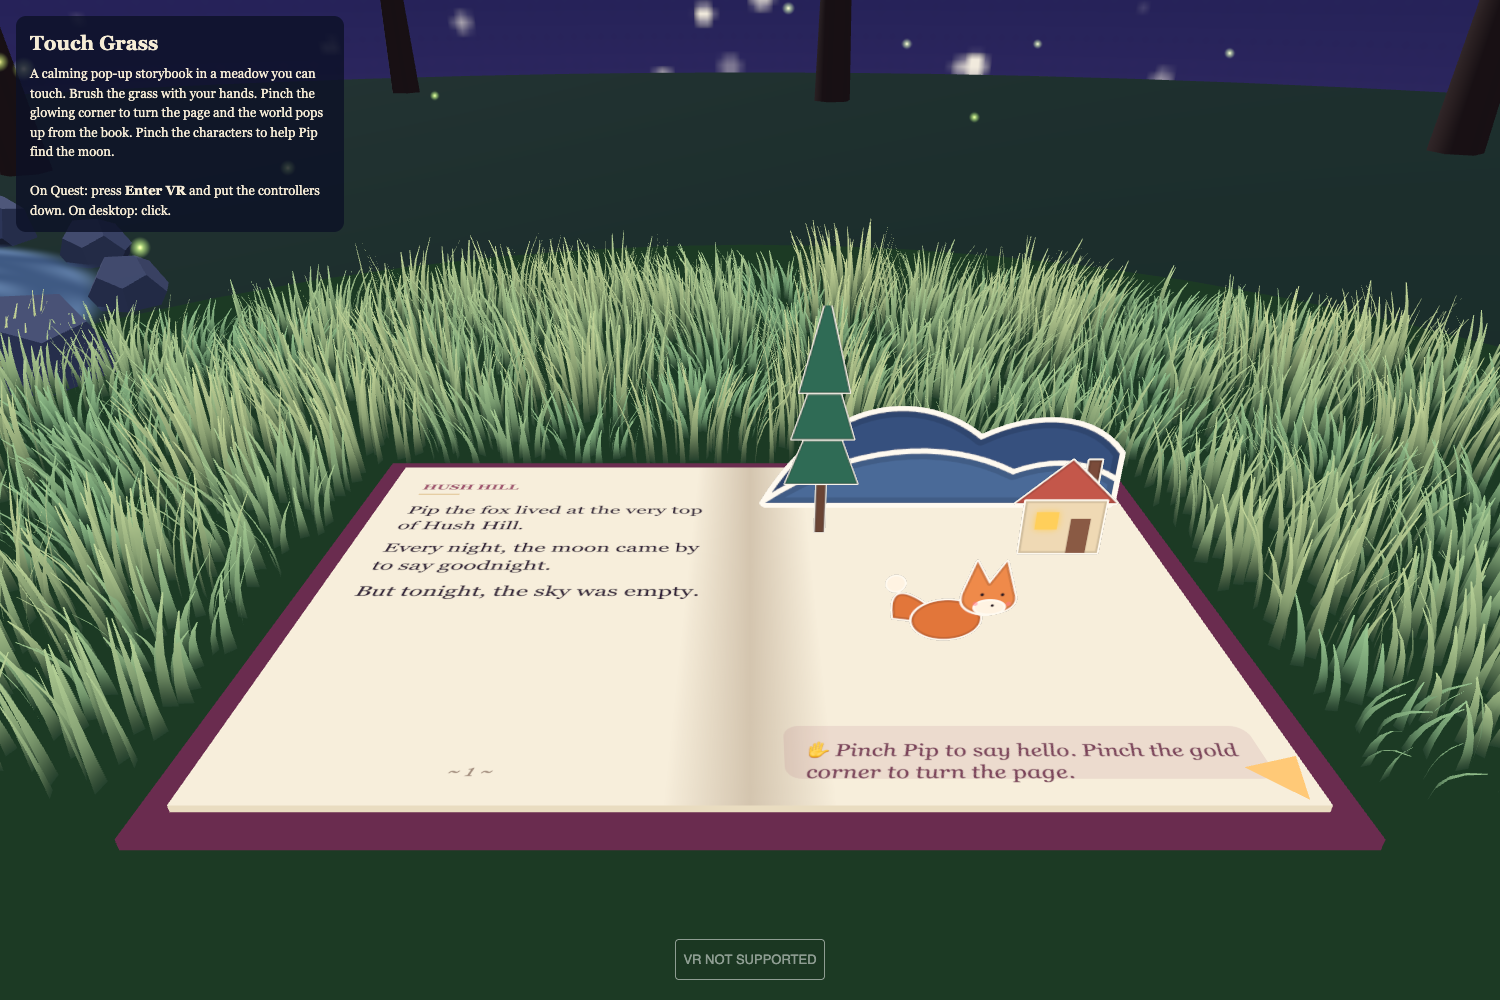
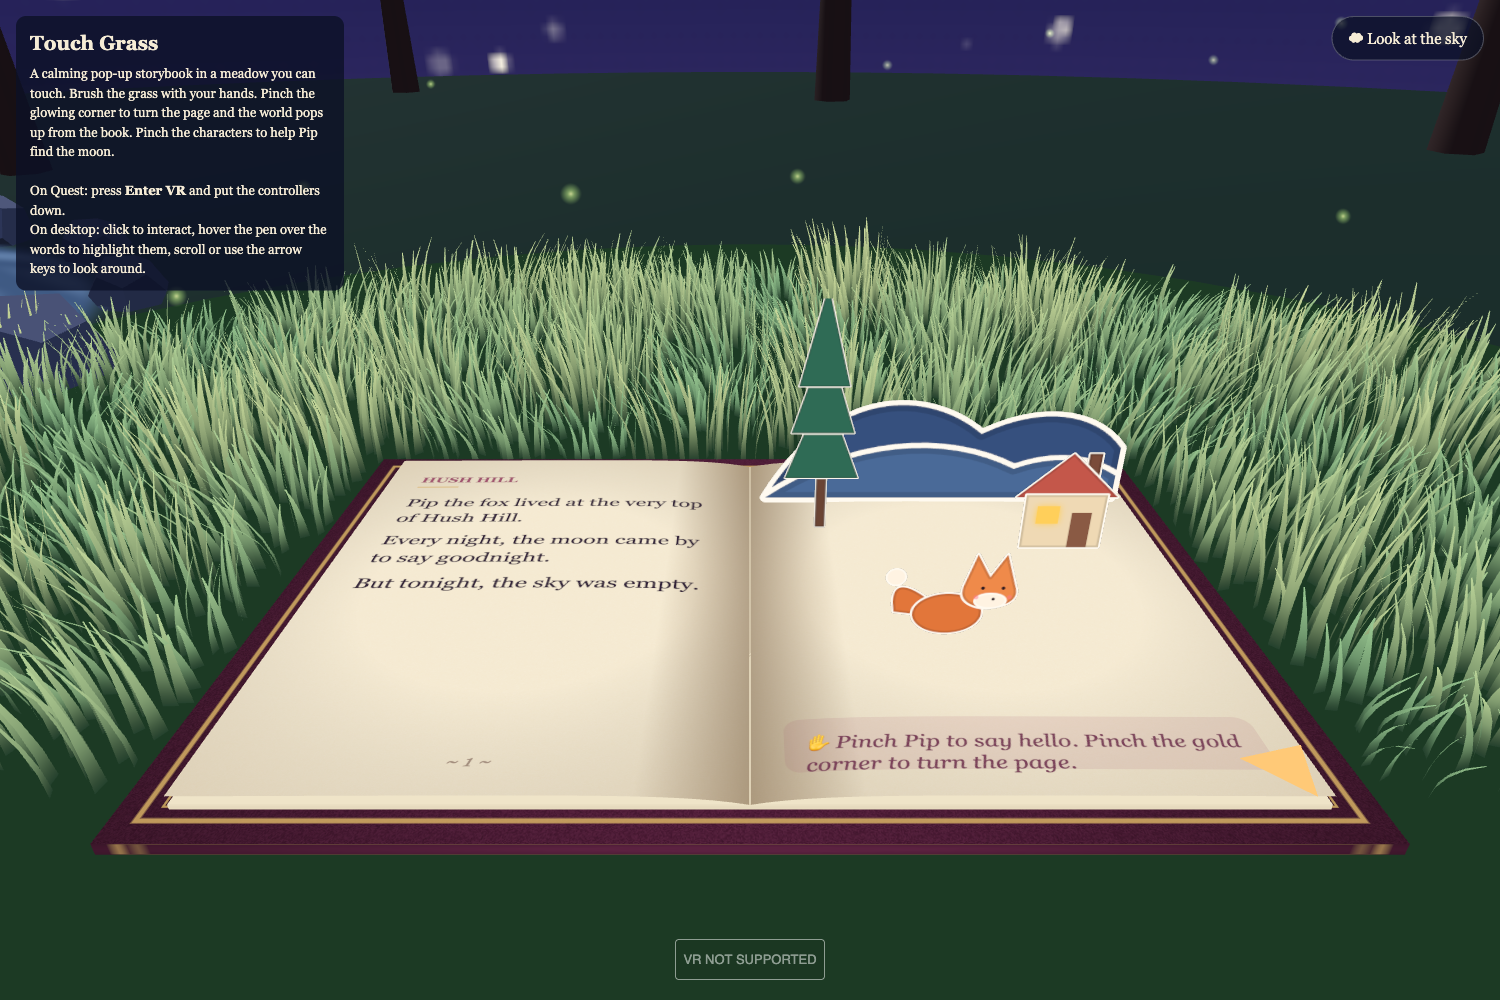
Realistic book (leather cover, page edges, paper grain, curved pages), highlighter pen, smoother page transitions, desktop look-around + sky button

diff --git a/main.js b/main.js
@@ -15,8 +15,18 @@ document.body.appendChild(VRButton.createButton(renderer, { optionalFeatures: ['
 const scene = new THREE.Scene();
 const camera = new THREE.PerspectiveCamera(55, innerWidth / innerHeight, 0.01, 50);
 camera.position.set(0, -0.07, -0.08);          // desktop preview only; VR uses the headset pose
-camera.lookAt(0, -0.27, -0.45);
-if (new URLSearchParams(location.search).has('sky')) camera.lookAt(0, 0.6, -2);
+camera.rotation.order = 'YXZ';
+const look = { yaw: 0, pitch: -0.496, ty: 0, tp: -0.496 };
+if (new URLSearchParams(location.search).has('sky')) look.tp = 0.45;
+camera.rotation.set(look.pitch, look.yaw, 0);
+addEventListener('wheel', e => { look.tp = Math.max(-0.95, Math.min(1.1, look.tp - e.deltaY * 0.0016)); look.ty = Math.max(-1.3, Math.min(1.3, look.ty - e.deltaX * 0.0016)); }, { passive: true });
+addEventListener('keydown', e => {
+  if (e.key === 'ArrowUp') look.tp = Math.min(1.1, look.tp + 0.15); if (e.key === 'ArrowDown') look.tp = Math.max(-0.95, look.tp - 0.15);
+  if (e.key === 'ArrowLeft') look.ty = Math.min(1.3, look.ty + 0.15); if (e.key === 'ArrowRight') look.ty = Math.max(-1.3, look.ty - 0.15);
+});
+addEventListener('DOMContentLoaded', () => {});
+const skyBtn = document.getElementById('skybtn');
+if (skyBtn) skyBtn.addEventListener('click', () => { const up = look.tp > 0; look.tp = up ? -0.496 : 0.45; look.ty = 0; skyBtn.textContent = up ? '☁  Look at the sky' : '📖  Back to the book'; });
 scene.add(camera);
 scene.add(new THREE.HemisphereLight(0x9fb0ff, 0x1a2a1a, 2.2));
 const moonLight = new THREE.DirectionalLight(0xdfe6ff, 1.6); moonLight.position.set(-1, 2, -1); scene.add(moonLight);
@@ -251,40 +261,114 @@ const glow = new THREE.Mesh(new THREE.PlaneGeometry(0.9, 0.7), new THREE.MeshBas
   }),
 }));
 glow.rotation.x = -Math.PI / 2; glow.position.y = -0.012; BOOK.add(glow);
-const coverMat = new THREE.MeshBasicMaterial({ color: 0x6a2c4f });
-const cover = new THREE.Mesh(new THREE.BoxGeometry(PW * 2 + 0.024, 0.008, PD + 0.024), coverMat); cover.position.y = -0.006; BOOK.add(cover);
-const block = new THREE.Mesh(new THREE.BoxGeometry(PW * 2, 0.006, PD), new THREE.MeshBasicMaterial({ color: 0xe9dcc0 })); block.position.y = -0.002; BOOK.add(block);
+// Leather cloth cover with grain and a gold-tooled border
+const leather = tex(1024, 640, (x, w, h) => {
+  x.fillStyle = '#5b2140'; x.fillRect(0, 0, w, h);
+  const id = x.getImageData(0, 0, w, h), d = id.data;
+  for (let i = 0; i < d.length; i += 4) { const n = (Math.random() - 0.5) * 26; d[i] += n; d[i + 1] += n * 0.6; d[i + 2] += n * 0.8; }
+  x.putImageData(id, 0, 0);
+  for (let i = 0; i < 2500; i++) { x.strokeStyle = `rgba(0,0,0,${Math.random() * 0.12})`; x.lineWidth = 1; const a = Math.random() * w, b = Math.random() * h; x.beginPath(); x.moveTo(a, b); x.lineTo(a + (Math.random() - 0.5) * 18, b + (Math.random() - 0.5) * 18); x.stroke(); }
+  const v = x.createRadialGradient(w / 2, h / 2, h * 0.2, w / 2, h / 2, w * 0.7); v.addColorStop(0, 'rgba(0,0,0,0)'); v.addColorStop(1, 'rgba(0,0,0,.45)'); x.fillStyle = v; x.fillRect(0, 0, w, h);
+  x.strokeStyle = 'rgba(214,176,100,.85)'; x.lineWidth = 5; x.strokeRect(22, 22, w - 44, h - 44); x.lineWidth = 2; x.strokeRect(36, 36, w - 72, h - 72);
+});
+const coverMat = new THREE.MeshBasicMaterial({ map: leather });
+const cover = new THREE.Mesh(new THREE.BoxGeometry(PW * 2 + 0.036, 0.005, PD + 0.03), coverMat); cover.position.y = -0.0035; BOOK.add(cover);
+// Page block: stacked page edges on the sides
+const edges = tex(512, 64, (x, w, h) => {
+  x.fillStyle = '#efe4c8'; x.fillRect(0, 0, w, h);
+  for (let y = 0; y < h; y += 2) { x.fillStyle = `rgba(120,95,60,${0.08 + Math.random() * 0.14})`; x.fillRect(0, y, w, 1); }
+});
+const edgeMat = new THREE.MeshBasicMaterial({ map: edges }), plainMat = new THREE.MeshBasicMaterial({ color: 0xefe4c8 });
+const block = new THREE.Mesh(new THREE.BoxGeometry(PW * 2, 0.01, PD), [edgeMat, edgeMat, plainMat, plainMat, edgeMat, edgeMat]); block.position.y = -0.0035; block.scale.y = 0.95; BOOK.add(block);
+// Paper grain, generated once and laid over every page
+const GRAIN = document.createElement('canvas'); GRAIN.width = 800; GRAIN.height = 1040;
+{
+  const g = GRAIN.getContext('2d'), id = g.createImageData(800, 1040), d = id.data;
+  for (let i = 0; i < d.length; i += 4) { const n = 128 + (Math.random() - 0.5) * 38; d[i] = d[i + 1] = d[i + 2] = n; d[i + 3] = 255; }
+  g.putImageData(id, 0, 0);
+  for (let i = 0; i < 900; i++) { g.strokeStyle = `rgba(90,70,40,${Math.random() * 0.25})`; g.lineWidth = 0.6; const a = Math.random() * 800, b = Math.random() * 1040, r = Math.random() * 6.28; g.beginPath(); g.moveTo(a, b); g.lineTo(a + Math.cos(r) * 14, b + Math.sin(r) * 14); g.stroke(); }
+}
 
 function pageMesh(x, spineLeft) {
   const c = document.createElement('canvas'); c.width = 800; c.height = 1040;
   const t = new THREE.CanvasTexture(c); t.colorSpace = THREE.SRGBColorSpace; t.anisotropy = 8;
-  const m = new THREE.Mesh(new THREE.PlaneGeometry(PW, PD), new THREE.MeshBasicMaterial({ map: t }));
+  const geo = new THREE.PlaneGeometry(PW, PD, 32, 1), pa = geo.attributes.position;
+  for (let i = 0; i < pa.count; i++) { const u = spineLeft ? (pa.getX(i) + PW / 2) / PW : (PW / 2 - pa.getX(i)) / PW; pa.setZ(i, 0.005 * (1 - Math.exp(-u * 9)) - 0.001 * u); }
+  geo.computeVertexNormals();
+  const m = new THREE.Mesh(geo, new THREE.MeshBasicMaterial({ map: t }));
   m.rotation.x = -Math.PI / 2; m.position.set(x, 0.0012, 0); BOOK.add(m);
-  return { c, ctx: c.getContext('2d'), t, spineLeft };
+  return { c, ctx: c.getContext('2d'), t, spineLeft, m, lines: [] };
 }
 const left = pageMesh(-PW / 2, false), right = pageMesh(PW / 2, true);
 function paper(p) {
-  const x = p.ctx; x.fillStyle = '#f7eedb'; x.fillRect(0, 0, 800, 1040);
-  const g = x.createLinearGradient(p.spineLeft ? 0 : 800, 0, p.spineLeft ? 120 : 680, 0);
-  g.addColorStop(0, 'rgba(120,90,60,.28)'); g.addColorStop(1, 'rgba(120,90,60,0)'); x.fillStyle = g; x.fillRect(0, 0, 800, 1040);
+  const x = p.ctx; x.fillStyle = '#f5ead2'; x.fillRect(0, 0, 800, 1040);
+  x.save(); x.globalCompositeOperation = 'overlay'; x.globalAlpha = 0.55; x.drawImage(GRAIN, 0, 0); x.restore();
+  const g = x.createLinearGradient(p.spineLeft ? 0 : 800, 0, p.spineLeft ? 160 : 640, 0);
+  g.addColorStop(0, 'rgba(90,60,30,.38)'); g.addColorStop(1, 'rgba(90,60,30,0)'); x.fillStyle = g; x.fillRect(0, 0, 800, 1040);
+  const v = x.createRadialGradient(400, 520, 300, 400, 520, 720); v.addColorStop(0, 'rgba(0,0,0,0)'); v.addColorStop(1, 'rgba(110,80,40,.18)'); x.fillStyle = v; x.fillRect(0, 0, 800, 1040);
 }
-function wrap(ctx, text, x, y, w, lh) {
+function wrap(ctx, text, x, y, w, lh, out) {
+  const put = (line) => { ctx.fillText(line, x, y); if (out) out.push({ x, y, w: ctx.measureText(line).width, lh }); };
   for (const para of text.split('\n')) {
     let line = '';
     for (const word of para.split(' ')) {
       const t = line ? line + ' ' + word : word;
-      if (ctx.measureText(t).width > w) { ctx.fillText(line, x, y); y += lh; line = word; } else line = t;
+      if (ctx.measureText(t).width > w) { put(line); y += lh; line = word; } else line = t;
     }
-    ctx.fillText(line, x, y); y += lh * 1.35;
+    put(line); y += lh * 1.35;
   }
 }
-function drawPages(n, total, heading, text, hint) {
+const marks = {};   // page -> { lineIndex: [x0, x1] }  highlighter strokes persist per page
+let cur = null;
+function drawLeft() {
+  if (!cur) return;
   paper(left); const L = left.ctx;
-  L.fillStyle = '#a0526e'; L.font = '600 34px Georgia, serif'; L.fillText(heading.toUpperCase(), 70, 110);
+  L.fillStyle = '#a0526e'; L.font = '600 34px Georgia, serif'; L.fillText(cur.heading.toUpperCase(), 70, 110);
   L.fillStyle = '#d9b46a'; L.fillRect(70, 130, 90, 4);
-  L.fillStyle = '#33223a'; L.font = '46px Georgia, serif'; wrap(L, text, 70, 220, 660, 66);
-  L.fillStyle = '#a08a7a'; L.font = 'italic 30px Georgia, serif'; L.textAlign = 'center'; L.fillText(`~ ${n} ~`, 400, 985); L.textAlign = 'left';
+  // measure lines first (invisible pass) so highlights sit under the ink
+  L.font = '46px Georgia, serif'; const lines = []; L.save(); L.fillStyle = 'rgba(0,0,0,0)'; wrap(L, cur.text, 70, 220, 660, 66, lines); L.restore();
+  left.lines = lines;
+  const pm = marks[page] || {};
+  L.save(); L.globalCompositeOperation = 'multiply';
+  for (const k in pm) { const ln = lines[k]; if (!ln) continue; const [a, b] = pm[k];
+    L.fillStyle = 'rgba(255,214,70,.75)'; L.beginPath(); L.roundRect(a, ln.y - ln.lh * 0.72, b - a, ln.lh * 0.86, 10); L.fill(); }
+  L.restore();
+  L.fillStyle = '#33223a'; L.font = '46px Georgia, serif'; wrap(L, cur.text, 70, 220, 660, 66);
+  L.fillStyle = '#a08a7a'; L.font = 'italic 30px Georgia, serif'; L.textAlign = 'center'; L.fillText(`~ ${cur.n} ~`, 400, 985); L.textAlign = 'left';
   left.t.needsUpdate = true;
+}
+function highlightAt(cx, cy) {
+  const ln = left.lines.findIndex(l => cy > l.y - l.lh * 0.8 && cy < l.y + l.lh * 0.25 && cx > l.x - 12 && cx < l.x + l.w + 12);
+  if (ln < 0) return false;
+  const pm = (marks[page] ??= {}), l = left.lines[ln];
+  const a = Math.max(l.x - 6, cx - 16), b = Math.min(l.x + l.w + 6, cx + 16);
+  const r = pm[ln]; if (r && a >= r[0] && b <= r[1]) return true;
+  pm[ln] = r ? [Math.min(r[0], a), Math.max(r[1], b)] : [a, b];
+  drawLeft(); markerSound(); return true;
+}
+let lastMark = 0;
+function markerSound() {
+  const now = performance.now(); if (now - lastMark < 90 || !actx) return; lastMark = now;
+  const len = actx.sampleRate * 0.08, buf = actx.createBuffer(1, len, actx.sampleRate), d = buf.getChannelData(0);
+  for (let i = 0; i < len; i++) d[i] = (Math.random() * 2 - 1) * Math.sin(Math.PI * i / len);
+  const src = actx.createBufferSource(); src.buffer = buf; const f = actx.createBiquadFilter(); f.type = 'highpass'; f.frequency.value = 2500;
+  const g = actx.createGain(); g.gain.value = 0.05; src.connect(f).connect(g).connect(actx.destination); src.start();
+}
+// A pencil-style highlighter pen that follows your fingertip (VR) or the mouse (desktop)
+const pen = new THREE.Group();
+{
+  const body = new THREE.Mesh(new THREE.CylinderGeometry(0.0035, 0.0035, 0.09, 12), new THREE.MeshStandardMaterial({ color: 0xffd24a, roughness: 0.5 })); body.position.y = 0.055; pen.add(body);
+  const cap = new THREE.Mesh(new THREE.CylinderGeometry(0.0036, 0.0036, 0.012, 12), new THREE.MeshStandardMaterial({ color: 0x3a3a3a })); cap.position.y = 0.104; pen.add(cap);
+  const tipM = new THREE.Mesh(new THREE.ConeGeometry(0.0035, 0.01, 12), new THREE.MeshStandardMaterial({ color: 0xffe27a })); tipM.rotation.x = Math.PI; tipM.position.y = 0.005; pen.add(tipM);
+  pen.rotation.set(0.5, 0, -0.35); pen.visible = false; scene.add(pen);
+}
+function pageCanvasPoint(worldP) {
+  const l = left.m.worldToLocal(worldP.clone());
+  if (Math.abs(l.x) > PW / 2 || Math.abs(l.y) > PD / 2 || l.z < -0.006 || l.z > 0.022) return null;
+  return [(l.x / PW + 0.5) * 800, (1 - (l.y / PD + 0.5)) * 1040];
+}
+function drawPages(n, total, heading, text, hint) {
+  cur = { n, total, heading, text }; drawLeft();
   paper(right); const R = right.ctx;
   R.fillStyle = 'rgba(160,82,110,.12)'; R.beginPath(); R.roundRect(50, 880, 700, 110, 24); R.fill();
   R.fillStyle = '#7a3e58'; R.font = 'italic 36px Georgia, serif'; wrap(R, '✋ ' + hint, 80, 945, 640, 44);
@@ -294,10 +378,10 @@ function drawPages(n, total, heading, text, hint) {
 // Page corner: a folded, glowing dog-ear you pinch to turn
 const corner = new THREE.Mesh(new THREE.CircleGeometry(0.014, 3), new THREE.MeshBasicMaterial({ color: 0xffc977, side: THREE.DoubleSide }));
 corner.rotation.x = -Math.PI / 2; corner.rotation.z = Math.PI / 4;
-corner.position.set(PW - 0.012, 0.004, PD / 2 - 0.012); BOOK.add(corner);
+corner.position.set(PW - 0.012, 0.0075, PD / 2 - 0.012); BOOK.add(corner);
 
 // ---------- Paper cut-outs that fold up off the page ----------
-const stage = new THREE.Group(); stage.position.set(PW / 2, 0.002, 0); BOOK.add(stage);
+const stage = new THREE.Group(); stage.position.set(PW / 2, 0.005, 0); BOOK.add(stage);
 let pops = [], tappables = [];
 const EDGE = '#fffaf0';
 function cutout(w, h, draw, { flat = false } = {}) {
@@ -575,9 +659,9 @@ function turnPage() {
   const sheet = new THREE.Mesh(geo, new THREE.MeshBasicMaterial({ map: front, side: THREE.FrontSide }));
   const back = new THREE.Mesh(geo, new THREE.MeshBasicMaterial({ color: 0xefe4cc, side: THREE.BackSide }));
   for (const m of [sheet, back]) { m.rotation.x = -Math.PI / 2; m.position.x = PW / 2; g.add(m); }
-  stage.visible = false;
+  pops.forEach(m => (m.userData.fold = 1));   // old scene folds back down into the page
   flip = { g, geo, p: 0, swapped: false, base: Float32Array.from(geo.attributes.position.array) };
-  setTimeout(() => paperThump(), 780);
+  setTimeout(() => paperThump(), 1150);
 }
 function paperSwish() {
   actx ??= new AudioContext();
@@ -598,7 +682,7 @@ function paperThump() {
 }
 function updateFlip(dt) {
   if (!flip) return;
-  const f = flip; f.p = Math.min(1, f.p + dt * 1.25);
+  const f = flip; f.p = Math.min(1, f.p + dt * 0.85);
   const e = f.p < 0.5 ? 2 * f.p * f.p : 1 - Math.pow(-2 * f.p + 2, 2) / 2;   // ease in-out
   f.g.rotation.z = e * Math.PI;
   const pos = f.geo.attributes.position, lift = Math.sin(e * Math.PI);
@@ -607,7 +691,7 @@ function updateFlip(dt) {
     pos.setZ(i, lift * 0.05 * u * u - lift * 0.02 * u);                      // paper curl
   }
   pos.needsUpdate = true;
-  if (!f.swapped && f.p > 0.5) { f.swapped = true; showPage((page + 1) % PAGES.length); stage.visible = true; }
+  if (!f.swapped && f.p > 0.5) { f.swapped = true; showPage((page + 1) % PAGES.length); }
   if (f.p >= 1) { BOOK.remove(f.g); f.geo.dispose(); flip = null; }
 }
 
@@ -629,6 +713,7 @@ const hands = [0, 1].map(i => {
   tip.visible = false; scene.add(tip);
   return { hand, tip, pinching: false };
 });
+let penOwner = null;
 function updateHands() {
   hands.forEach((h, i) => (h.slot = i ? grassU.uH1 : grassU.uH0));
   for (const h of hands) {
@@ -639,6 +724,9 @@ function updateHands() {
     h.slot.value.copy(palm && palm.visible ? palm.getWorldPosition(new THREE.Vector3()).lerp(a, 0.5) : a);
     const p = a.clone().add(b).multiplyScalar(0.5), d = a.distanceTo(b);
     h.tip.visible = true; h.tip.position.copy(p);
+    const cp = !h.pinching && pageCanvasPoint(a);
+    if (cp) { pen.visible = true; pen.position.copy(a); penOwner = h; highlightAt(cp[0], cp[1]); }
+    else if (penOwner === h) { pen.visible = false; penOwner = null; }
     if (!h.pinching && d < 0.02) {
       h.pinching = true; const hit = hitObject(p);
       if (!hit && breath) { h.breathing = true; breatheStart(); } else activate(hit);
@@ -660,6 +748,12 @@ const grassPlane = new THREE.Plane(new THREE.Vector3(0, 1, 0), -(GRASS_Y + 0.02)
 renderer.domElement.addEventListener('pointermove', e => {
   ndc.set((e.clientX / innerWidth) * 2 - 1, -(e.clientY / innerHeight) * 2 + 1); ray.setFromCamera(ndc, camera);
   ray.ray.intersectPlane(grassPlane, grassU.uH2.value) || grassU.uH2.value.set(9, 9, 9);
+  const hit = ray.intersectObject(left.m)[0];
+  if (hit && !renderer.xr.isPresenting) {
+    pen.visible = true; pen.position.copy(hit.point);
+    const cx = hit.uv.x * 800, cy = (1 - hit.uv.y) * 1040;
+    renderer.domElement.style.cursor = highlightAt(cx, cy) || left.lines.some(l => cy > l.y - l.lh && cy < l.y + l.lh * 0.3) ? 'none' : 'none';
+  } else if (!renderer.xr.isPresenting) { pen.visible = false; renderer.domElement.style.cursor = ''; }
 });
 addEventListener('resize', () => { camera.aspect = innerWidth / innerHeight; camera.updateProjectionMatrix(); renderer.setSize(innerWidth, innerHeight); });
 
@@ -670,6 +764,7 @@ showPage(0);
 renderer.setAnimationLoop(() => {
   const dt = Math.min(clock.getDelta(), 0.05), t = clock.elapsedTime;
   grassU.uTime.value = t; window.__skyU.uTime.value = t;
+  if (!renderer.xr.isPresenting) { look.pitch += (look.tp - look.pitch) * Math.min(1, dt * 4); look.yaw += (look.ty - look.yaw) * Math.min(1, dt * 4); camera.rotation.set(look.pitch, look.yaw, 0); }
   updateWorld(t, dt);
   updateFlip(dt);
   updateSkyToys(t);
@@ -677,9 +772,10 @@ renderer.setAnimationLoop(() => {
   updateBreath(dt);
   for (const m of pops) {
     const u = m.userData;
+    if (u.fold !== undefined) { u.fold = Math.max(0, u.fold - dt * 2.6); if (!u.flat) m.rotation.x = -Math.PI / 2 * (1 - u.fold * u.fold); m.position.y = (u.baseY || 0) * u.fold; continue; }
     if (u.rise) { m.position.y += dt * 0.03; m.position.x += Math.sin(t * 2 + m.id) * dt * 0.005; continue; }
     // fold up from the page like paper engineering
-    if (u.popT < 1) { u.popT += dt * 1.6; const k = Math.max(0, Math.min(1, u.popT)); const target = u.flat ? -Math.PI / 2 : 0; m.rotation.x = -Math.PI / 2 + (target + Math.PI / 2) * (u.flat ? k : backOut(k)); }
+    if (u.popT < 1) { u.popT += dt * 1.25; const k = Math.max(0, Math.min(1, u.popT)); const target = u.flat ? -Math.PI / 2 : 0; m.rotation.x = -Math.PI / 2 + (target + Math.PI / 2) * (u.flat ? k : backOut(k)); }
     let y = u.baseY + (u.lift && u.popT >= 0 ? u.lift * Math.min(1, u.popT) : 0);
     if (u.hop) { u.hop = Math.max(0, u.hop - dt * 3); y += Math.sin(u.hop * Math.PI) * 0.015; }
     if (u.drift) { u.drift += dt; m.position.x = Math.min(0.2, (u.drift - 1) * 0.08); y += (u.drift - 1) * 0.02; }

diff --git a/index.html b/index.html
@@ -21,8 +21,9 @@
 <div id="intro">
   <h1>Touch Grass</h1>
   A calming pop-up storybook in a meadow you can touch. Brush the grass with your hands. Pinch the glowing corner to turn the page and the world pops up from the book. Pinch the characters to help Pip find the moon.<br><br>
-  On Quest: press <b>Enter VR</b> and put the controllers down. On desktop: click.
+  On Quest: press <b>Enter VR</b> and put the controllers down.<br>On desktop: click to interact, hover the pen over the words to highlight them, scroll or use the arrow keys to look around.
 </div>
-<script type="module" src="./main.js?v=kids9"></script>
+<button id="skybtn" style="position:fixed;right:16px;top:16px;z-index:5;padding:10px 16px;border-radius:999px;border:1px solid rgba(255,255,255,.25);background:rgba(11,16,38,.75);color:#f6ecd6;font:15px Georgia,serif;cursor:pointer">☁  Look at the sky</button>
+<script type="module" src="./main.js?v=book11"></script>
 </body>
 </html>
